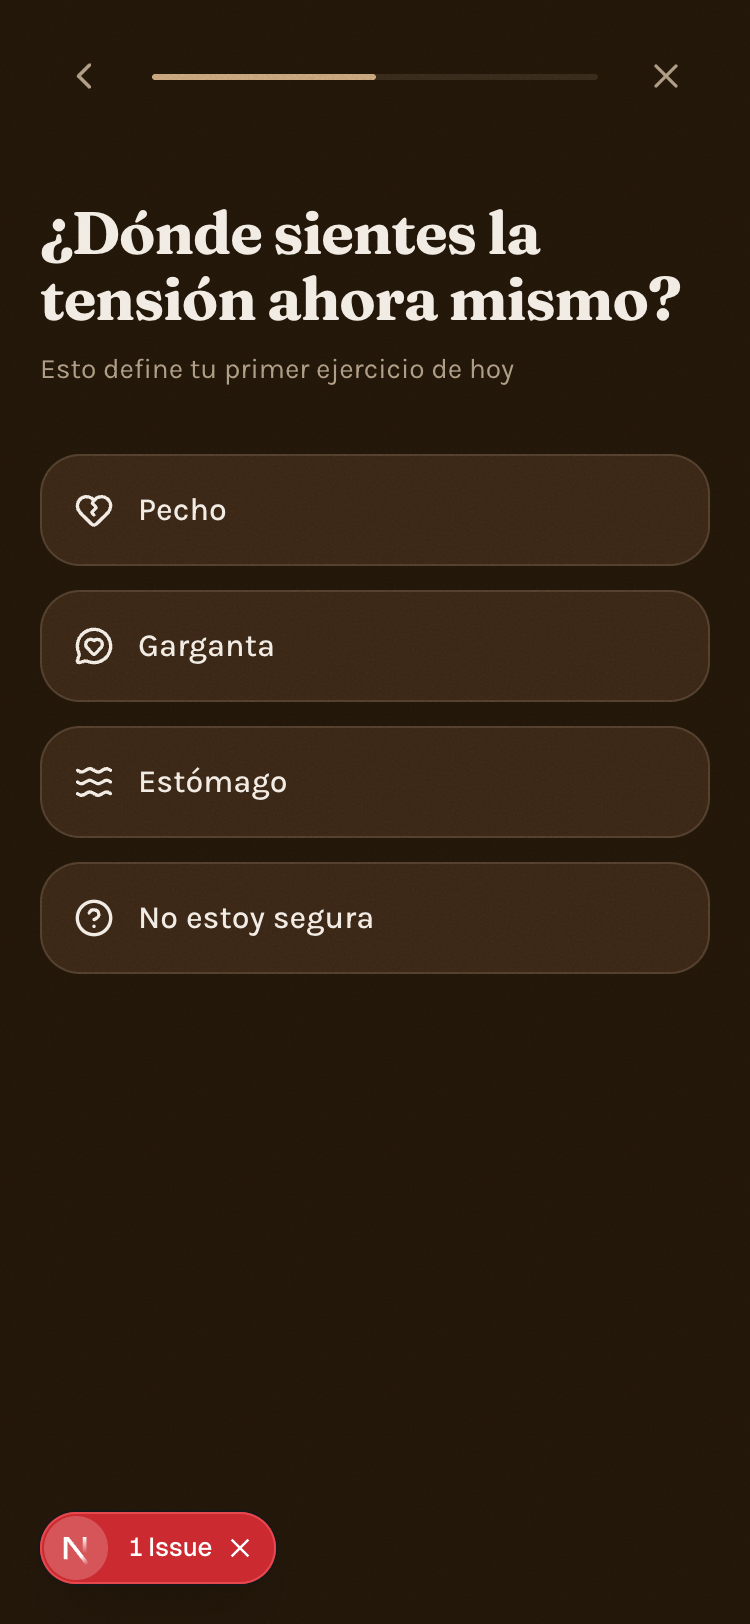
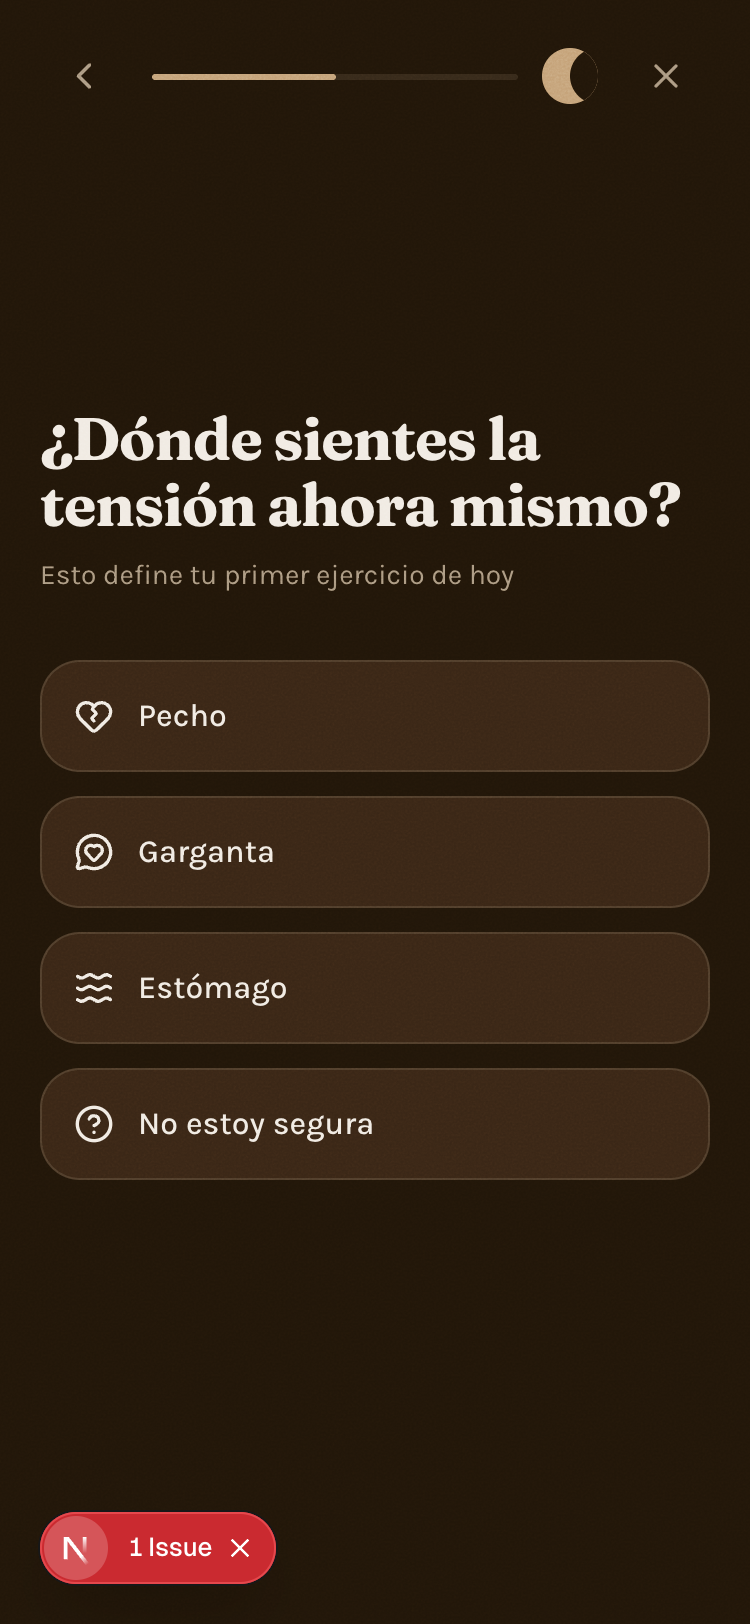
Corrige 5 hallazgos de la 2ª revisión del onboarding
- Bug real: PantallaLoading usaba useState(() => {...}) para programar
  timers en vez de useEffect (no limpiaba bien al desmontar)
- Confirmación antes de salir del flujo (window.confirm)
- Contenido de las preguntas centrado verticalmente (antes dejaba un
  vacío de ~500px sin usar)
- Anillo del 72% ahora anima su trazo al montar (stroke-dashoffset de
  vacío a 72%, gateado por reduced-motion)
- Dispositivo ownable de FICHA-ARTE.md aplicado: la barra de progreso
  ahora incluye un mini-indicador de fase lunar (mismo disco-sombra
  que en la landing) en vez de ser una simple línea genérica

Changed region(s): [[0.0307, 0.1232, 0.9507, 0.7389], [0.7053, 0.0308, 0.7667, 0.0616], [0.46, 0.0308, 0.4907, 0.0616]]

diff --git a/app/onboarding/page.tsx b/app/onboarding/page.tsx
@@ -6,7 +6,7 @@
 // loading "armando tu plan" (B) + resultado personalizado. Categoría bienestar/hábito → 4-8
 // pasos de alto rendimiento (02B).
 
-import { useState } from 'react';
+import { useEffect, useState } from 'react';
 import { motion, AnimatePresence, useReducedMotion } from 'motion/react';
 import { ChevronLeft, X, HeartCrack, Waves, CircleDashed, HelpCircle, Sunrise, Sun, MoonStar, Moon, MessageCircleHeart, BedDouble, Sparkles } from 'lucide-react';
 
@@ -19,15 +19,35 @@ type Respuestas = {
 
 const TOTAL_PREGUNTAS = 4;
 
-function BarraProgreso({ paso }: { paso: number }) {
-  const pct = Math.max(8, Math.round((paso / TOTAL_PREGUNTAS) * 100));
+/* Dispositivo ownable de FICHA-ARTE.md: fase lunar como indicador de progreso —
+   mismo disco-sombra-sobre-disco-iluminado de la landing (MensajeContraste.tsx),
+   aplicado aquí como avance del onboarding en vez de decoración aislada. */
+function LunaProgreso({ frac }: { frac: number }) {
+  const desplazamiento = Math.round(frac * 28);
   return (
-    <div className="h-[3px] w-full rounded-full bg-[color-mix(in_oklab,var(--text-tertiary)_18%,transparent)]">
-      <motion.div
-        className="h-full rounded-full bg-[var(--accent)]"
-        animate={{ width: `${pct}%` }}
+    <span className="relative block size-7 shrink-0 overflow-hidden rounded-full bg-[var(--accent)]">
+      <motion.span
+        className="absolute top-0 size-7 rounded-full bg-[var(--bg)]"
+        animate={{ left: desplazamiento }}
         transition={{ duration: 0.3, ease: [0.16, 1, 0.3, 1] }}
       />
+    </span>
+  );
+}
+
+function BarraProgreso({ paso }: { paso: number }) {
+  const frac = Math.min(1, paso / TOTAL_PREGUNTAS);
+  const pct = Math.max(8, Math.round(frac * 100));
+  return (
+    <div className="flex flex-1 items-center gap-3">
+      <div className="h-[3px] flex-1 rounded-full bg-[color-mix(in_oklab,var(--text-tertiary)_18%,transparent)]">
+        <motion.div
+          className="h-full rounded-full bg-[var(--accent)]"
+          animate={{ width: `${pct}%` }}
+          transition={{ duration: 0.3, ease: [0.16, 1, 0.3, 1] }}
+        />
+      </div>
+      <LunaProgreso frac={frac} />
     </div>
   );
 }
@@ -44,13 +64,18 @@ function Header({ paso, onAtras }: { paso: number; onAtras?: () => void }) {
         <ChevronLeft size={22} aria-hidden="true" />
       </button>
       <BarraProgreso paso={paso} />
-      <a
-        href="/"
+      <button
+        type="button"
         aria-label="Salir del escaneo"
+        onClick={() => {
+          if (window.confirm('¿Salir ahora? Tus respuestas no se guardan.')) {
+            window.location.href = '/';
+          }
+        }}
         className="flex size-11 shrink-0 items-center justify-center rounded-full text-[var(--text-secondary)] [touch-action:manipulation]"
       >
         <X size={20} aria-hidden="true" />
-      </a>
+      </button>
     </div>
   );
 }
@@ -95,7 +120,7 @@ function PantallaPregunta({
         animate={{ opacity: 1, x: 0 }}
         exit={reduce ? { opacity: 1, x: 0 } : { opacity: 0, x: -24 }}
         transition={{ duration: reduce ? 0.2 : 0.3, ease: [0.16, 1, 0.3, 1] }}
-        className="mt-10 flex-1"
+        className="flex flex-1 flex-col justify-center pb-20"
       >
         <h1 className="text-balance text-[30px] font-bold leading-[1.1] tracking-[-0.02em] text-[var(--text-primary)] [font-family:var(--font-display)]">
           {pregunta}
@@ -236,7 +261,7 @@ function PantallaLoading({ onListo }: { onListo: () => void }) {
   const pasos = ['Leyendo tu carta natal...', 'Ubicando tu zona de tensión...', 'Armando tu ejercicio de 3 minutos...'];
   const [activo, setActivo] = useState(0);
 
-  useState(() => {
+  useEffect(() => {
     const t1 = setTimeout(() => setActivo(1), reduce ? 200 : 900);
     const t2 = setTimeout(() => setActivo(2), reduce ? 400 : 1800);
     const t3 = setTimeout(onListo, reduce ? 600 : 2700);
@@ -245,7 +270,8 @@ function PantallaLoading({ onListo }: { onListo: () => void }) {
       clearTimeout(t2);
       clearTimeout(t3);
     };
-  });
+    // eslint-disable-next-line react-hooks/exhaustive-deps
+  }, []);
 
   return (
     <div className="flex min-h-dvh flex-col items-center justify-center px-5 text-center">
@@ -289,7 +315,7 @@ function PantallaResultado({ respuestas }: { respuestas: Respuestas }) {
         <div className="respira-marco relative mt-8 flex size-40 items-center justify-center">
           <svg width="160" height="160" viewBox="0 0 160 160" className="-rotate-90" role="img" aria-label="72 por ciento de tensión detectada">
             <circle cx="80" cy="80" r="70" fill="none" strokeWidth="10" stroke="color-mix(in oklab, var(--accent) 16%, transparent)" />
-            <circle
+            <motion.circle
               cx="80"
               cy="80"
               r="70"
@@ -298,7 +324,9 @@ function PantallaResultado({ respuestas }: { respuestas: Respuestas }) {
               strokeLinecap="round"
               stroke="var(--accent)"
               strokeDasharray={2 * Math.PI * 70}
-              strokeDashoffset={2 * Math.PI * 70 * (1 - 0.72)}
+              initial={{ strokeDashoffset: 2 * Math.PI * 70 }}
+              animate={{ strokeDashoffset: 2 * Math.PI * 70 * (1 - 0.72) }}
+              transition={{ duration: reduce ? 0 : 1.1, ease: [0.16, 1, 0.3, 1], delay: reduce ? 0 : 0.2 }}
             />
           </svg>
           <span className="absolute text-[40px] font-bold text-[var(--text-primary)] [font-family:var(--font-display)]">

diff --git a/docs/revisiones/onboarding-veredicto.md b/docs/revisiones/onboarding-veredicto.md
@@ -1,14 +1,14 @@
 # VEREDICTO revisor-visual — onboarding
 Fecha: 2026-09-04 00:00
-Screenshot: docs/revisiones/onboarding-1-situacion.png, onboarding-2-zona.png, onboarding-3-momento.png, onboarding-4-reconocimiento1.png, onboarding-5-meta.png, onboarding-6-reconocimiento2.png, onboarding-7-loading.png, onboarding-8-resultado.png
-Usabilidad: 28/40
-Craft: 10/20
+Screenshot: docs/revisiones/onboarding-1-situacion.png (+ 7 pantallas adicionales onboarding-2..8)
+Usabilidad: 29/40
+Craft: 11/20
 Copy (si vende): N-A
 Fidelidad (si hubo referencia): N-A
 Veredicto: NO LISTA
 Top defectos:
-1. Pantallas 4 y 6 (reconocimiento): con prefers-reduced-motion emulado (usado por el propio script de captura, capturar-onboarding.mjs:5), el párrafo de cuerpo queda casi invisible (opacity a medio fundido) y el botón "Continuar" NO aparece en absoluto — el usuario no tiene forma visible de avanzar. Causa: PantallaReconocimiento anima icono/título/cuerpo/botón con delays escalonados (0.1/0.2/0.3/0.4s) sin acortar ni saltar ese fundido cuando useReducedMotion() es true (solo PantallaLoading lo hace). Fix: envolver PantallaPregunta y PantallaReconocimiento con useReducedMotion() y, si es true, render con opacity:1 inicial (sin delay) para todos los elementos, tal como exige la propia doc del proyecto (50-DISENO-ONBOARDING-PAYWALL.md:130, "reduced-motion: solo cross-fade 200ms").
-2. Pantalla 2 (zona) y pantalla 3 (momento): iconos repetidos sin distinguir opciones — en la pregunta de zona, "Garganta", "Estómago" y "No estoy segura" comparten el mismo icono genérico HelpCircle (3 de 4 opciones idénticas visualmente); en la pregunta de momento, "Antes de dormir" y "De madrugada (3 AM)" comparten el icono Moon. Un usuario cualquiera nota que las opciones "se ven iguales" sin razón. Fix: asignar un icono semánticamente distinto a cada opción (o quitar iconos de esa lista y usar solo texto, como ya se hace en la pantalla de meta).
-3. Pantalla 5 (meta): las opciones no llevan icono (solo texto), rompiendo la consistencia visual del componente "opción de lista" usado en las 3 preguntas anteriores (con icono + label). El mismo componente cambia de apariencia (indentado/gap) sin razón funcional dentro del mismo flujo. Fix: unificar — todas las preguntas de selección usan o no usan el slot de icono, nunca mezclado.
-4. Pantalla 8 (resultado): el anillo de "72%" es un círculo completo con border-4 sólido (app/onboarding/page.tsx:278) que NO representa el 72% — visualmente es un círculo 100% cerrado sin relación con la cifra dentro. Un usuario que mira el anillo y el número juntos percibe una incoherencia (el anillo no "dibuja" el progreso, viola la baseline de movimiento "anillos que se dibujan" y el encaje óptico número↔forma). Fix: usar un SVG con stroke-dasharray/stroke-dashoffset proporcional al 72% (con o sin animación de trazo según reduced-motion).
-5. Todo el flujo: no existe salida/skip visible (ni botón "saltar", ni "X" para cerrar el onboarding) — solo hay botón "Atrás". Para un flujo de 8 pantallas que decide el pago, la ausencia total de una vía de escape distinta a retroceder una por una reduce el control del usuario. Fix: agregar un cierre/salida discreto (esquina superior) que permita abandonar sin recorrer las 8 pantallas en reversa.
+1. [Pantallas de pregunta 1, 2, 3 y 5 — mitad inferior de la pantalla] Tras las opciones queda un bloque de vacío negro de ~500-600px (casi la mitad del viewport) sin ningún elemento hasta el badge de dev fijo abajo; rompe el encaje óptico y da sensación de pantalla incompleta/rota → centrar verticalmente el bloque pregunta+opciones en el viewport, o rellenar el espacio con un elemento visual de marca (textura de papel, ilustración de fase lunar) en vez de dejarlo negro.
+2. [app/onboarding/page.tsx, componente PantallaLoading, línea 239] Usa `useState(() => {...})` para programar los 3 `setTimeout` en vez de `useEffect`; el inicializador de useState no limpia correctamente al desmontar y puede disparar actualizaciones de estado en componente desmontado — coincide con el overlay rojo "1 Issue" visible en las 8 capturas → reemplazar por `useEffect(() => {...}, [])` con el mismo cleanup.
+3. [Todas las pantallas, superficies/cards] FICHA-ARTE.md promete un "dispositivo ownable" (textura de papel/grano sutil en cards + micro-fase lunar como indicador de progreso) que no aparece en ningún screenshot: superficies planas sin grano, barra de progreso es una simple línea sin fase lunar → aplicar el grano de papel al `--surface` y sustituir/acompañar la barra de progreso con el indicador lunar descrito en la ficha.
+4. [Pantalla 8 resultado, anillo del 72%] El SVG tiene `strokeDasharray`/`strokeDashoffset` correctos pero se renderiza ya completo desde el primer frame (sin animación de dibujo) pese a que la ficha define una "firma de movimiento" de respiración/dibujo progresivo, y contrasta con la barra de progreso del header que sí anima su ancho → animar el `strokeDashoffset` de 0 (círculo vacío) al valor final al montar la pantalla, gateado por `useReducedMotion`.
+5. [Header, botón "X" de salida — todas las pantallas] Sale directo a "/" sin confirmación ni aviso de que las respuestas no se guardan, aun con progreso ya avanzado (paso 3-4 de 4) → agregar confirmación breve ("¿Salir ahora? tus respuestas no se guardan") antes de navegar fuera del flujo.
